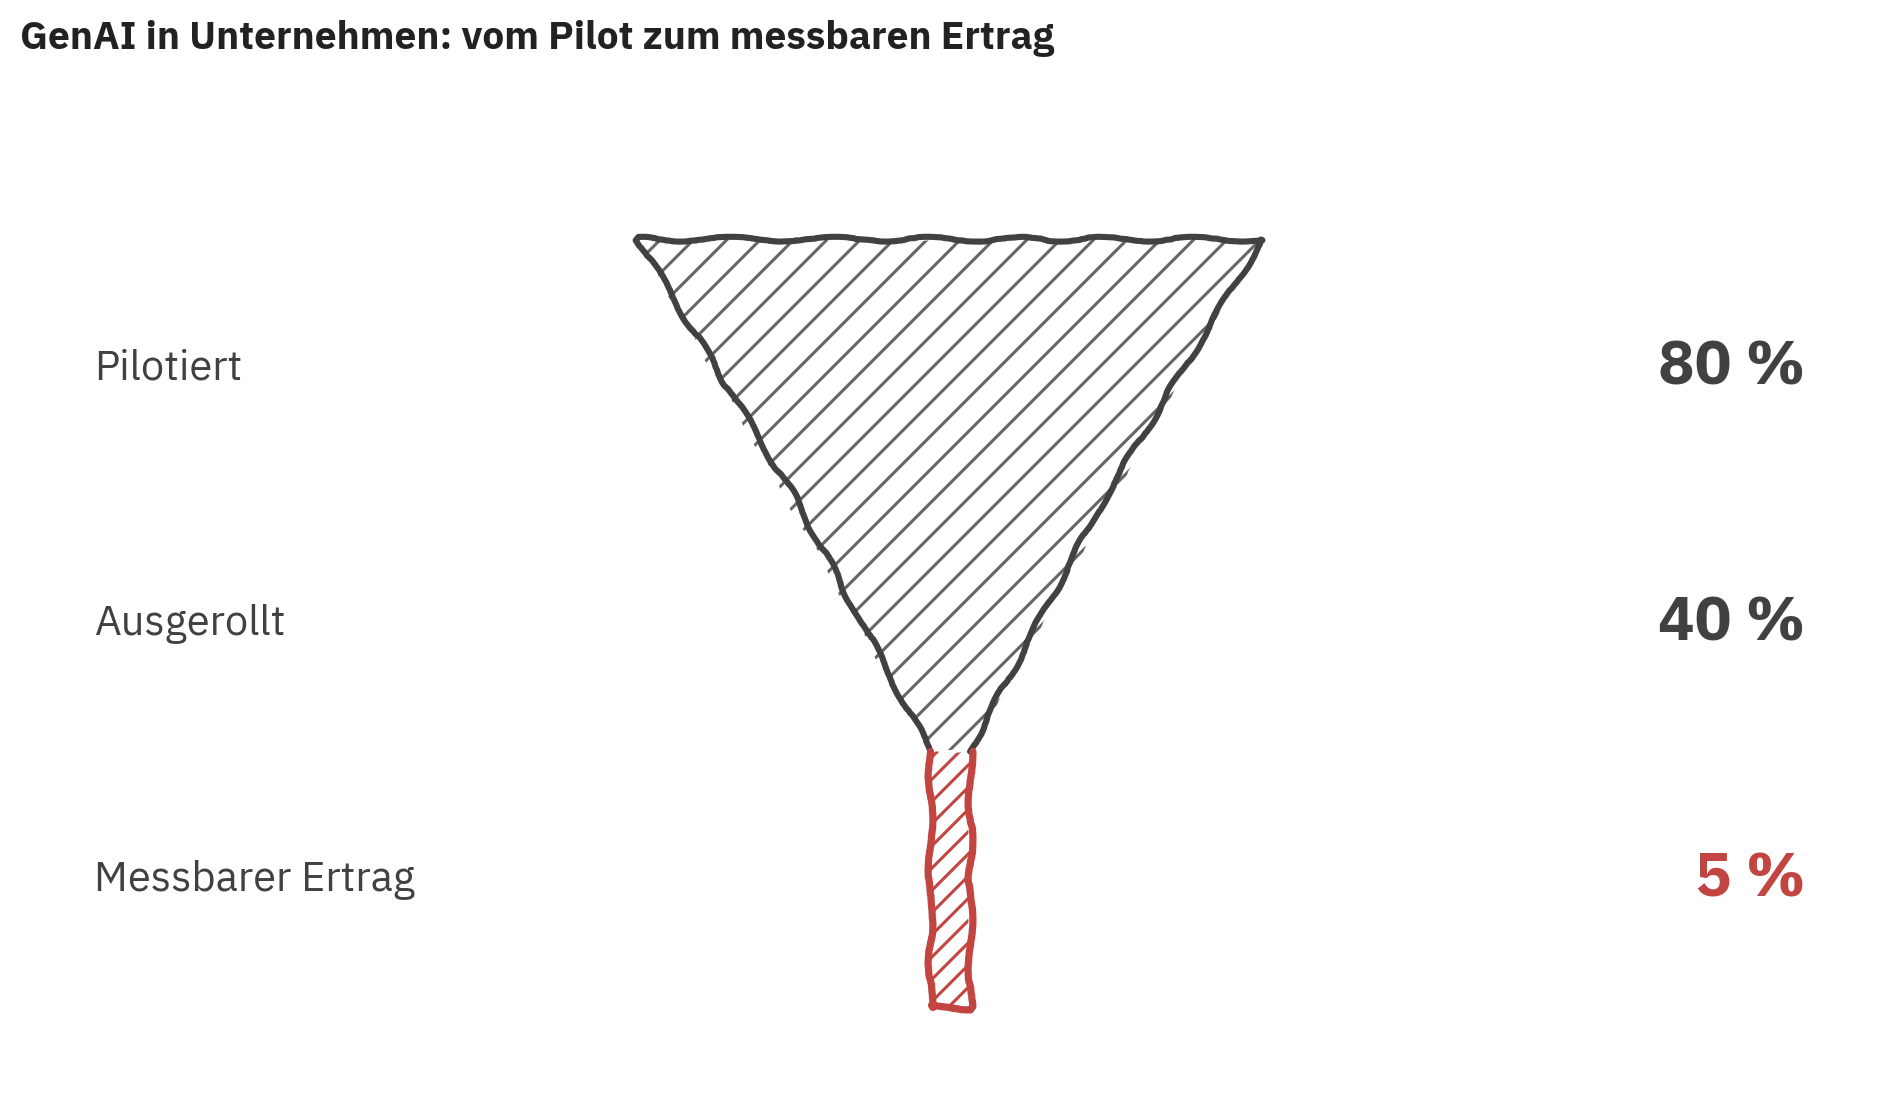
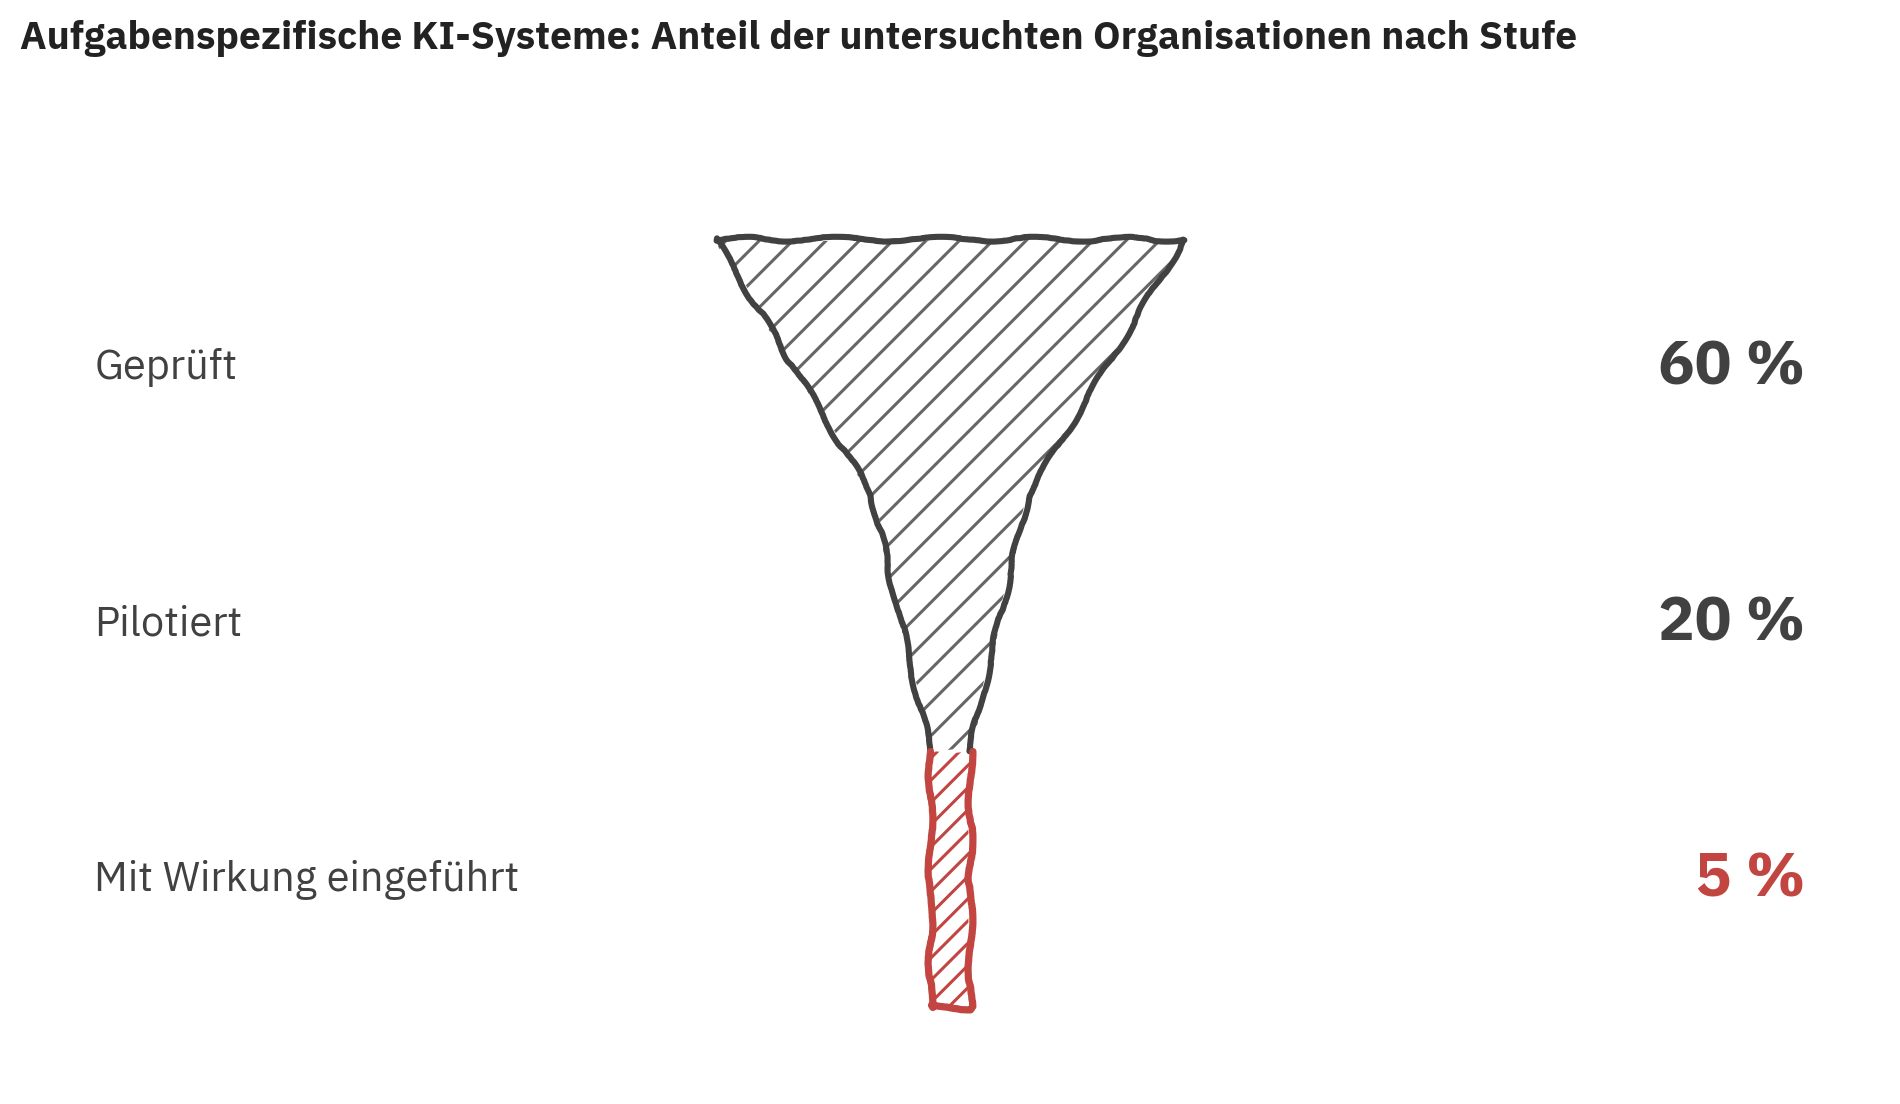
Mehr Output, weniger Wert: Belege korrigiert, Trichter neu
Gallup gilt nur für die USA (21 auf 40 Prozent), die MIT-NANDA-Studie zählt
Organisationen statt Pilotprojekte und ist methodisch umstritten. Der Trichter
mischte zwei Reihen des Berichts; neu zeigt er nur die aufgabenspezifischen
Systeme (60, 20, 5 Prozent). Bildunterschrift nennt Projekt und Stichprobe.

Claude-Session: https://claude.ai/code/session_014xHypxMGDZpTVy4QRaqR1U

diff --git a/src/content/perspektiven/mehr-output-weniger-wert.md b/src/content/perspektiven/mehr-output-weniger-wert.md
@@ -2,6 +2,7 @@
 title: "Mehr Output, weniger Wert"
 description: "Verdichtungs-Paradox. KI macht den Einzelnen schneller – doch die Zeit füllt sich sofort wieder, und Output täuscht Wert vor. Warum das ein Organisationsproblem ist."
 date: 2026-06-14
+updated: 2026-10-30
 category: "KI & Arbeit"
 image: "/images/perspektiven/mehr-output-weniger-wert-trichter.webp"
 icon: "/images/perspektiven/icons/mehr-output-weniger-wert.webp"
@@ -39,11 +40,11 @@ Dazu fällt ein Filter weg, der bisher unsichtbar gearbeitet hat: die Knappheit.
 
 KI senkt diesen Preis auf fast null, und jeder produziert jetzt einen passablen ersten Entwurf. Wenn der Entwurf aber gratis ist, gibt es keine Hürde mehr, also landet mehr auf dem Tisch. Dazu bläht sich jede Vorlage auf, weil auch der Umfang nichts mehr kostet: Das Memo wird fünf Seiten lang, weil fünf Seiten so billig sind wie eine. Die Prüfarbeit, die der Aufwand früher erübrigt hat, fällt jetzt erst recht an, nur später und bei jemand anderem.
 
-Die KI-Nutzung am Arbeitsplatz hat sich in zwei Jahren [nahezu verdoppelt](https://www.gallup.com/workplace/691643/work-nearly-doubled-two-years.aspx), die Begeisterung ist gross, und doch zeigen 95 Prozent der KI-Pilotprojekte [keinen messbaren Ertrag](https://fortune.com/2025/08/18/mit-report-95-percent-generative-ai-pilots-at-companies-failing-cfo). Bessere KI-Modelle lösen dieses Problem nicht. Es ist ein Organisationsproblem, solange Organisationen überwiegend aus Menschen bestehen.
+In den USA nutzten 2023 noch 21 Prozent der Beschäftigten KI bei der Arbeit, 2025 waren es 40 Prozent, [nahezu doppelt so viele](https://www.gallup.com/workplace/691643/work-nearly-doubled-two-years.aspx). Im selben Jahr sahen in einer methodisch umstrittenen [Studie des MIT-Projekts NANDA](https://fortune.com/2025/08/18/mit-report-95-percent-generative-ai-pilots-at-companies-failing-cfo) 95 Prozent der untersuchten Organisationen keine deutliche, anhaltende Wirkung aus aufgabenspezifischen KI-Systemen. Ich halte das für ein Organisationsproblem und keines der Modelle, solange Organisationen überwiegend aus Menschen bestehen.
 
-![Trichter von der GenAI-Pilotierung zum messbaren Ertrag: 80 Prozent der Unternehmen pilotieren, 40 Prozent rollen aus, nur 5 Prozent sehen einen messbaren Geschäftswert.](/images/perspektiven/mehr-output-weniger-wert-trichter.webp)
+![Trichter für aufgabenspezifische KI-Systeme: 60 Prozent der untersuchten Organisationen haben solche Systeme geprüft, 20 Prozent pilotiert, 5 Prozent mit Wirkung eingeführt.](/images/perspektiven/mehr-output-weniger-wert-trichter.webp)
 
-*Vom Pilot zum Ertrag: Die wenigsten GenAI-Initiativen zeigen messbaren Geschäftswert. Quelle: MIT, State of AI in Business 2025.*
+*Aufgabenspezifische KI-Systeme sind für einzelne Abläufe gebaut oder eingekauft, anders als Chat-Werkzeuge wie ChatGPT. «Mit Wirkung eingeführt» heisst: mit deutlicher, anhaltender Wirkung auf Produktivität oder Ergebnis. Quelle: MIT-Projekt NANDA, State of AI in Business 2025; Interviews in 52 Organisationen, Befragung von 153 Führungskräften, Januar bis Juni 2025.*
 
 ## Wer entscheidet, was «fertig» heisst
 
